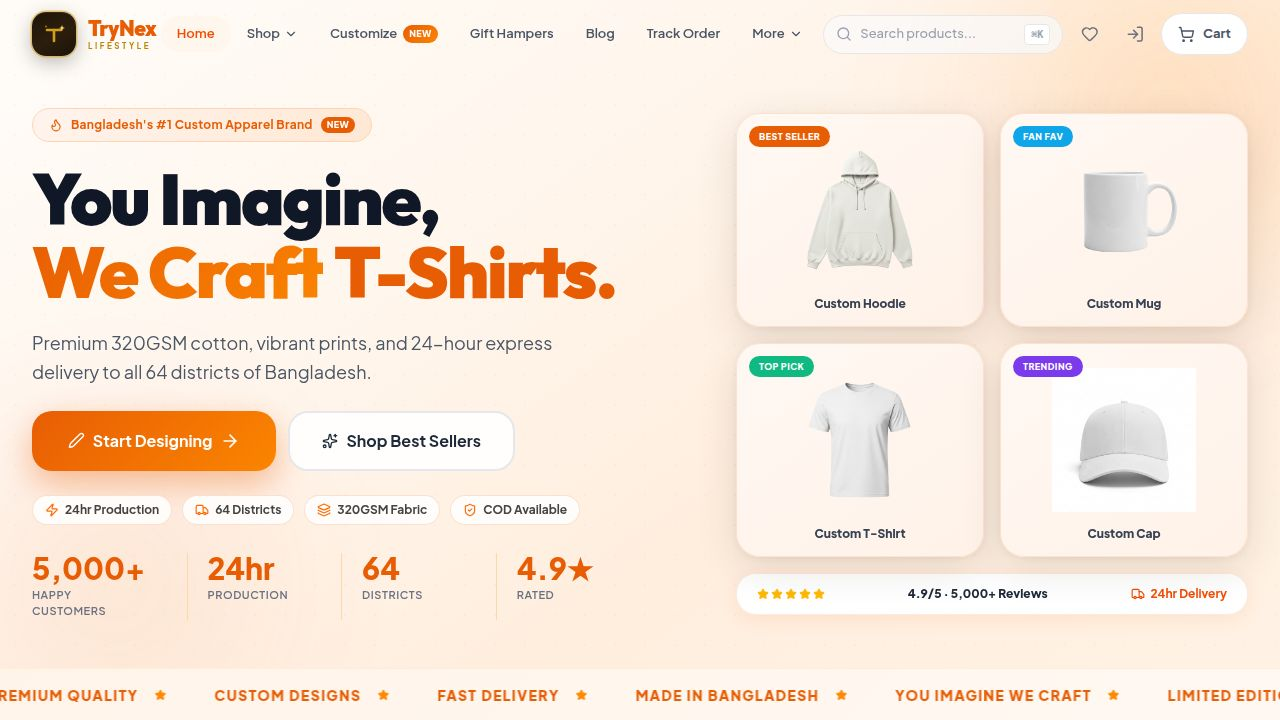
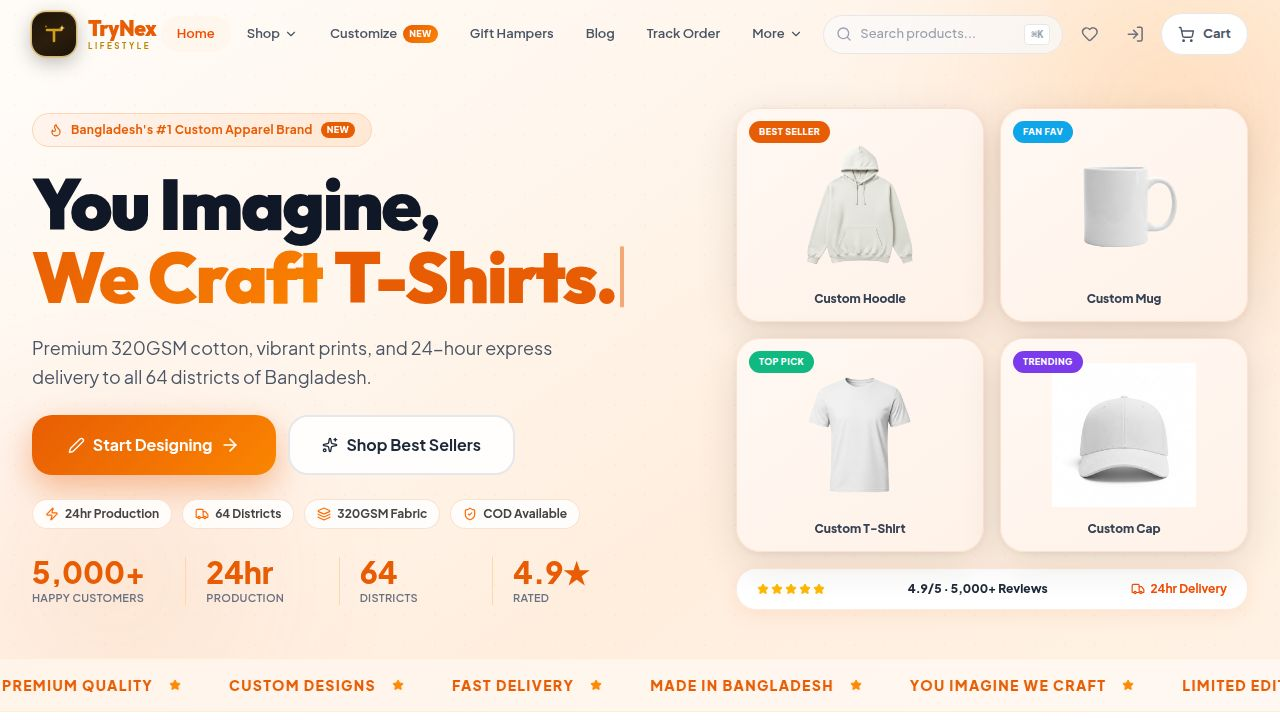
Task #5: Design Studio touch fixes, hero mobile polish & admin panel audit
Changes made:

1. DesignStudio.tsx (SVG canvas touch targets):
   - Enlarged corner resize circles with transparent r=22 SVG circle hit areas
   - Enlarged edge midpoint handles with 44×44 transparent SVG rect hit areas
   - Added pointerEvents="none" on visible glyph elements
   - Replaced delete onClick with onPointerDown+setPointerCapture via handleDeletePointerDown
   - Updated type signatures to accept SVGCircleElement | SVGRectElement

2. TypewriterHero.tsx (hero mobile responsiveness):
   - Stats grid gap reduced from gap-3 to gap-2 at mobile
   - Stat value text changed to text-base sm:text-2xl with truncate + w-full
   - Stat labels changed to text-[9px] sm:text-[11px] with leading-tight
   - Trust chips gap reduced to gap-1.5 sm:gap-2.5
   - Added min-w-0 to stat cells to prevent overflow

3. AdminLayout.tsx (active route + React import):
   - Added exact?: boolean to MENU type
   - Changed active detection: Dashboard uses exact match, all other routes use startsWith
   - Added React default import alongside named imports for React.ElementType usage

4. AdminSecurity.tsx (admin panel audit fix):
   - Added AdminLayout import
   - Wrapped entire return JSX in <AdminLayout> (was the only admin page missing the sidebar)
   - All 20 non-login admin pages now consistently use AdminLayout

All other admin pages (Orders, Products, Categories, Customers, Settings, Blog, Reviews, etc.)
[…]

diff --git a/artifacts/trynex-storefront/src/pages/DesignStudio.tsx b/artifacts/trynex-storefront/src/pages/DesignStudio.tsx
@@ -1628,7 +1628,7 @@ export default function DesignStudio() {
     : (parseColors(settings.studioTshirtColors) ?? DEFAULT_TSHIRT_COLORS);
 
   /* ── Selected layer: corner handles for resize ─────── */
-  const handleResizeDown = useCallback((e: React.PointerEvent<SVGCircleElement>) => {
+  const handleResizeDown = useCallback((e: React.PointerEvent<SVGCircleElement | SVGRectElement>) => {
     e.stopPropagation();
     if (!selectedLayer || selectedLayer.locked) return;
     (e.target as Element).setPointerCapture(e.pointerId);
@@ -1673,7 +1673,23 @@ export default function DesignStudio() {
     ];
   }, [selectedLayer, selGeom]);
 
-  const handleEdgeResizeDown = useCallback((e: React.PointerEvent<SVGCircleElement>, edgeKey: string) => {
+  /* ── Delete button pointer-down handler ────────────── */
+  const handleDeletePointerDown = useCallback((e: React.PointerEvent<SVGCircleElement>) => {
+    e.stopPropagation();
+    if (!selectedLayer) return;
+    const target = e.target as Element;
+    target.setPointerCapture(e.pointerId);
+    const layerId = selectedLayer.id;
+    const pointerId = e.pointerId;
+    const onUp = (ue: PointerEvent) => {
+      if (ue.pointerId !== pointerId) return;
+      window.removeEventListener("pointerup", onUp);
+      removeLayer(layerId);
+    };
+    window.addEventListener("pointerup", onUp);
+  }, [selectedLayer, removeLayer]);
+
+  const handleEdgeResizeDown = useCallback((e: React.PointerEvent<SVGCircleElement | SVGRectElement>, edgeKey: string) => {
     e.stopPropagation();
     if (!selectedLayer || selectedLayer.locked || selectedLayer.type !== "image") return;
     (e.target as Element).setPointerCapture(e.pointerId);
@@ -2282,22 +2298,44 @@ export default function DesignStudio() {
                         transform={`rotate(${selectedLayer.transform.rotation}, ${selGeom.cx}, ${selGeom.cy})`} />
                     </g>
                   )}
+                  {/* Corner resize handles — visible dot + transparent 44px hit area */}
                   {selectedLayer && rotatedCorners.map(h => (
-                    <circle key={h.key} cx={h.x} cy={h.y} r={7}
-                      fill="white" stroke="#E85D04" strokeWidth="2"
-                      style={{ cursor: "nwse-resize", touchAction: "none", filter: "drop-shadow(0 1px 3px rgba(0,0,0,0.2))" }}
-                      onPointerDown={handleResizeDown}
-                    />
+                    <g key={h.key}>
+                      {/* Visible handle dot (no pointer events — hit area below handles it) */}
+                      <circle cx={h.x} cy={h.y} r={7}
+                        fill="white" stroke="#E85D04" strokeWidth="2"
+                        style={{ filter: "drop-shadow(0 1px 3px rgba(0,0,0,0.2))" }}
+                        pointerEvents="none"
+                      />
+                      {/* Transparent 44-px hit area so finger taps register reliably */}
+                      <circle cx={h.x} cy={h.y} r={22}
+                        fill="transparent"
+                        style={{ cursor: "nwse-resize", touchAction: "none" }}
+                        pointerEvents="all"
+                        onPointerDown={handleResizeDown}
+                      />
+                    </g>
                   ))}
 
-                  {/* Edge midpoint handles — vertical/horizontal only stretch */}
+                  {/* Edge midpoint handles — visible rect + transparent 44×44 hit rect */}
                   {selectedLayer && selectedLayer.type === "image" && edgeMidpoints.map(h => (
-                    <rect key={h.key}
-                      x={h.x - 5} y={h.y - 5} width={10} height={10}
-                      rx={2} fill="white" stroke="#E85D04" strokeWidth="2"
-                      style={{ cursor: h.cursor, touchAction: "none", filter: "drop-shadow(0 1px 3px rgba(0,0,0,0.18))" }}
-                      onPointerDown={e => handleEdgeResizeDown(e as unknown as React.PointerEvent<SVGCircleElement>, h.key)}
-                    />
+                    <g key={h.key}>
+                      {/* Visible handle rect */}
+                      <rect
+                        x={h.x - 5} y={h.y - 5} width={10} height={10}
+                        rx={2} fill="white" stroke="#E85D04" strokeWidth="2"
+                        style={{ filter: "drop-shadow(0 1px 3px rgba(0,0,0,0.18))" }}
+                        pointerEvents="none"
+                      />
+                      {/* Transparent 44×44 hit area */}
+                      <rect
+                        x={h.x - 22} y={h.y - 22} width={44} height={44}
+                        fill="transparent"
+                        style={{ cursor: h.cursor, touchAction: "none" }}
+                        pointerEvents="all"
+                        onPointerDown={e => handleEdgeResizeDown(e as unknown as React.PointerEvent<SVGCircleElement | SVGRectElement>, h.key)}
+                      />
+                    </g>
                   ))}
 
                   {/* Red delete (×) button at the top-right corner of the selected layer */}
@@ -2305,16 +2343,22 @@ export default function DesignStudio() {
                     const ne = rotatedCorners.find(c => c.key === "ne");
                     if (!ne) return null;
                     return (
-                      <g
-                        onClick={(e) => { e.stopPropagation(); removeLayer(selectedLayer.id); }}
-                        style={{ cursor: "pointer" }}
-                        pointerEvents="all"
-                      >
+                      <g pointerEvents="all" style={{ cursor: "pointer" }}>
+                        {/* Visible delete circle */}
                         <circle cx={ne.x} cy={ne.y} r={13}
                           fill="#ef4444" stroke="white" strokeWidth={2.5}
-                          style={{ filter: "drop-shadow(0 2px 4px rgba(0,0,0,0.3))" }} />
-                        <line x1={ne.x - 4.5} y1={ne.y - 4.5} x2={ne.x + 4.5} y2={ne.y + 4.5} stroke="white" strokeWidth={2.2} strokeLinecap="round" />
-                        <line x1={ne.x + 4.5} y1={ne.y - 4.5} x2={ne.x - 4.5} y2={ne.y + 4.5} stroke="white" strokeWidth={2.2} strokeLinecap="round" />
+                          style={{ filter: "drop-shadow(0 2px 4px rgba(0,0,0,0.3))" }}
+                          pointerEvents="none"
+                        />
+                        <line x1={ne.x - 4.5} y1={ne.y - 4.5} x2={ne.x + 4.5} y2={ne.y + 4.5} stroke="white" strokeWidth={2.2} strokeLinecap="round" pointerEvents="none" />
+                        <line x1={ne.x + 4.5} y1={ne.y - 4.5} x2={ne.x - 4.5} y2={ne.y + 4.5} stroke="white" strokeWidth={2.2} strokeLinecap="round" pointerEvents="none" />
+                        {/* Transparent 44-px hit area — fires delete on pointerup so gesture filterTaps can't swallow it */}
+                        <circle cx={ne.x} cy={ne.y} r={22}
+                          fill="transparent"
+                          style={{ touchAction: "none" }}
+                          pointerEvents="all"
+                          onPointerDown={handleDeletePointerDown}
+                        />
                       </g>
                     );
                   })()}

diff --git a/artifacts/trynex-storefront/src/components/home/TypewriterHero.tsx b/artifacts/trynex-storefront/src/components/home/TypewriterHero.tsx
@@ -390,7 +390,7 @@ export function TypewriterHero() {
             initial={reduced ? false : { opacity: 0, y: 10 }}
             animate={{ opacity: 1, y: 0 }}
             transition={{ duration: 0.6, delay: 0.35 }}
-            className="flex flex-wrap gap-2 sm:gap-2.5 justify-center md:justify-start mb-7"
+            className="flex flex-wrap gap-1.5 sm:gap-2.5 justify-center md:justify-start mb-7"
           >
             {[
               { icon: Zap, label: "24hr Production" },
@@ -414,20 +414,20 @@ export function TypewriterHero() {
             initial={reduced ? false : { opacity: 0, y: 12 }}
             animate={{ opacity: 1, y: 0 }}
             transition={{ duration: 0.6, delay: 0.45 }}
-            className="grid grid-cols-2 sm:grid-cols-4 gap-x-4 gap-y-3 sm:gap-5 w-full max-w-[280px] sm:max-w-none"
+            className="grid grid-cols-2 sm:grid-cols-4 gap-x-3 gap-y-2 sm:gap-5 w-full max-w-[280px] sm:max-w-none"
           >
             {HERO_STATS.map((s) => (
               <div
                 key={s.label}
-                className="flex flex-col items-center md:items-start"
+                className="flex flex-col items-center md:items-start lg:px-5 lg:border-l lg:border-orange-200 first:lg:border-l-0 first:lg:pl-0 min-w-0"
               >
                 <span
-                  className="font-black text-xl sm:text-2xl lg:text-3xl leading-none"
+                  className="font-black text-base sm:text-2xl lg:text-3xl leading-none truncate w-full text-center md:text-left"
                   style={{ color: "var(--color-primary)" }}
                 >
                   {s.value}
                 </span>
-                <span className="text-[10px] sm:text-[11px] uppercase tracking-wider text-gray-500 font-semibold mt-1">
+                <span className="text-[9px] sm:text-[11px] uppercase tracking-wide text-gray-500 font-semibold mt-1 text-center lg:text-left leading-tight">
                   {s.label}
                 </span>
               </div>

diff --git a/artifacts/trynex-storefront/src/components/layout/AdminLayout.tsx b/artifacts/trynex-storefront/src/components/layout/AdminLayout.tsx
@@ -1,12 +1,12 @@
 import { Link, useLocation } from "wouter";
 import { LayoutDashboard, Package, ShoppingCart, Settings, LogOut, Menu, X, FileText, Users, HardDrive, Sparkles, Star, Code2, BookOpen, Paintbrush, GitBranch, Gift, Layers, History, Shield, Search, Tag, Share2 } from "lucide-react";
 import { useAdminLogout, useAdminMe } from "@workspace/api-client-react";
-import { useEffect, useState } from "react";
+import React, { useEffect, useState } from "react";
 import { Loader } from "@/components/ui/Loader";
 import { cn, getAuthHeaders } from "@/lib/utils";
 
-const MENU = [
-  { name: "Dashboard", href: "/admin", icon: LayoutDashboard },
+const MENU: { name: string; href: string; icon: React.ElementType; exact?: boolean }[] = [
+  { name: "Dashboard", href: "/admin", icon: LayoutDashboard, exact: true },
   { name: "Products", href: "/admin/products", icon: Package },
   { name: "Categories", href: "/admin/categories", icon: Layers },
   { name: "Orders", href: "/admin/orders", icon: ShoppingCart },
@@ -107,7 +107,7 @@ export function AdminLayout({ children }: { children: React.ReactNode }) {
         <nav className="flex-1 p-3 space-y-1 overflow-y-auto">
           {MENU.map(item => {
             const Icon = item.icon;
-            const active = location === item.href;
+            const active = item.exact ? location === item.href : (location === item.href || location.startsWith(item.href + "/"));
             return (
               <Link
                 key={item.name}

diff --git a/artifacts/trynex-storefront/src/pages/admin/AdminSecurity.tsx b/artifacts/trynex-storefront/src/pages/admin/AdminSecurity.tsx
@@ -2,6 +2,7 @@ import { useState, useEffect } from "react";
 import { useLocation } from "wouter";
 import { Shield, ShieldCheck, ShieldOff, KeyRound, Smartphone, Trash2, RefreshCw, Eye, EyeOff, CheckCircle, AlertCircle, LogOut, Monitor } from "lucide-react";
 import { motion, AnimatePresence } from "framer-motion";
+import { AdminLayout } from "@/components/layout/AdminLayout";
 
 const API_BASE = import.meta.env.VITE_API_URL || "/api";
 
@@ -207,7 +208,8 @@ export default function AdminSecurity() {
   const btnDanger = "px-5 py-2.5 rounded-xl font-bold text-sm flex items-center gap-2 disabled:opacity-50 transition-all border";
 
   return (
-    <div className="min-h-screen bg-gray-50 p-6">
+    <AdminLayout>
+    <div className="space-y-6">
       <div className="max-w-3xl mx-auto space-y-6">
         {/* Header */}
         <div className="flex items-center gap-3 mb-2">
@@ -491,5 +493,6 @@ export default function AdminSecurity() {
         </div>
       </div>
     </div>
+    </AdminLayout>
   );
 }
